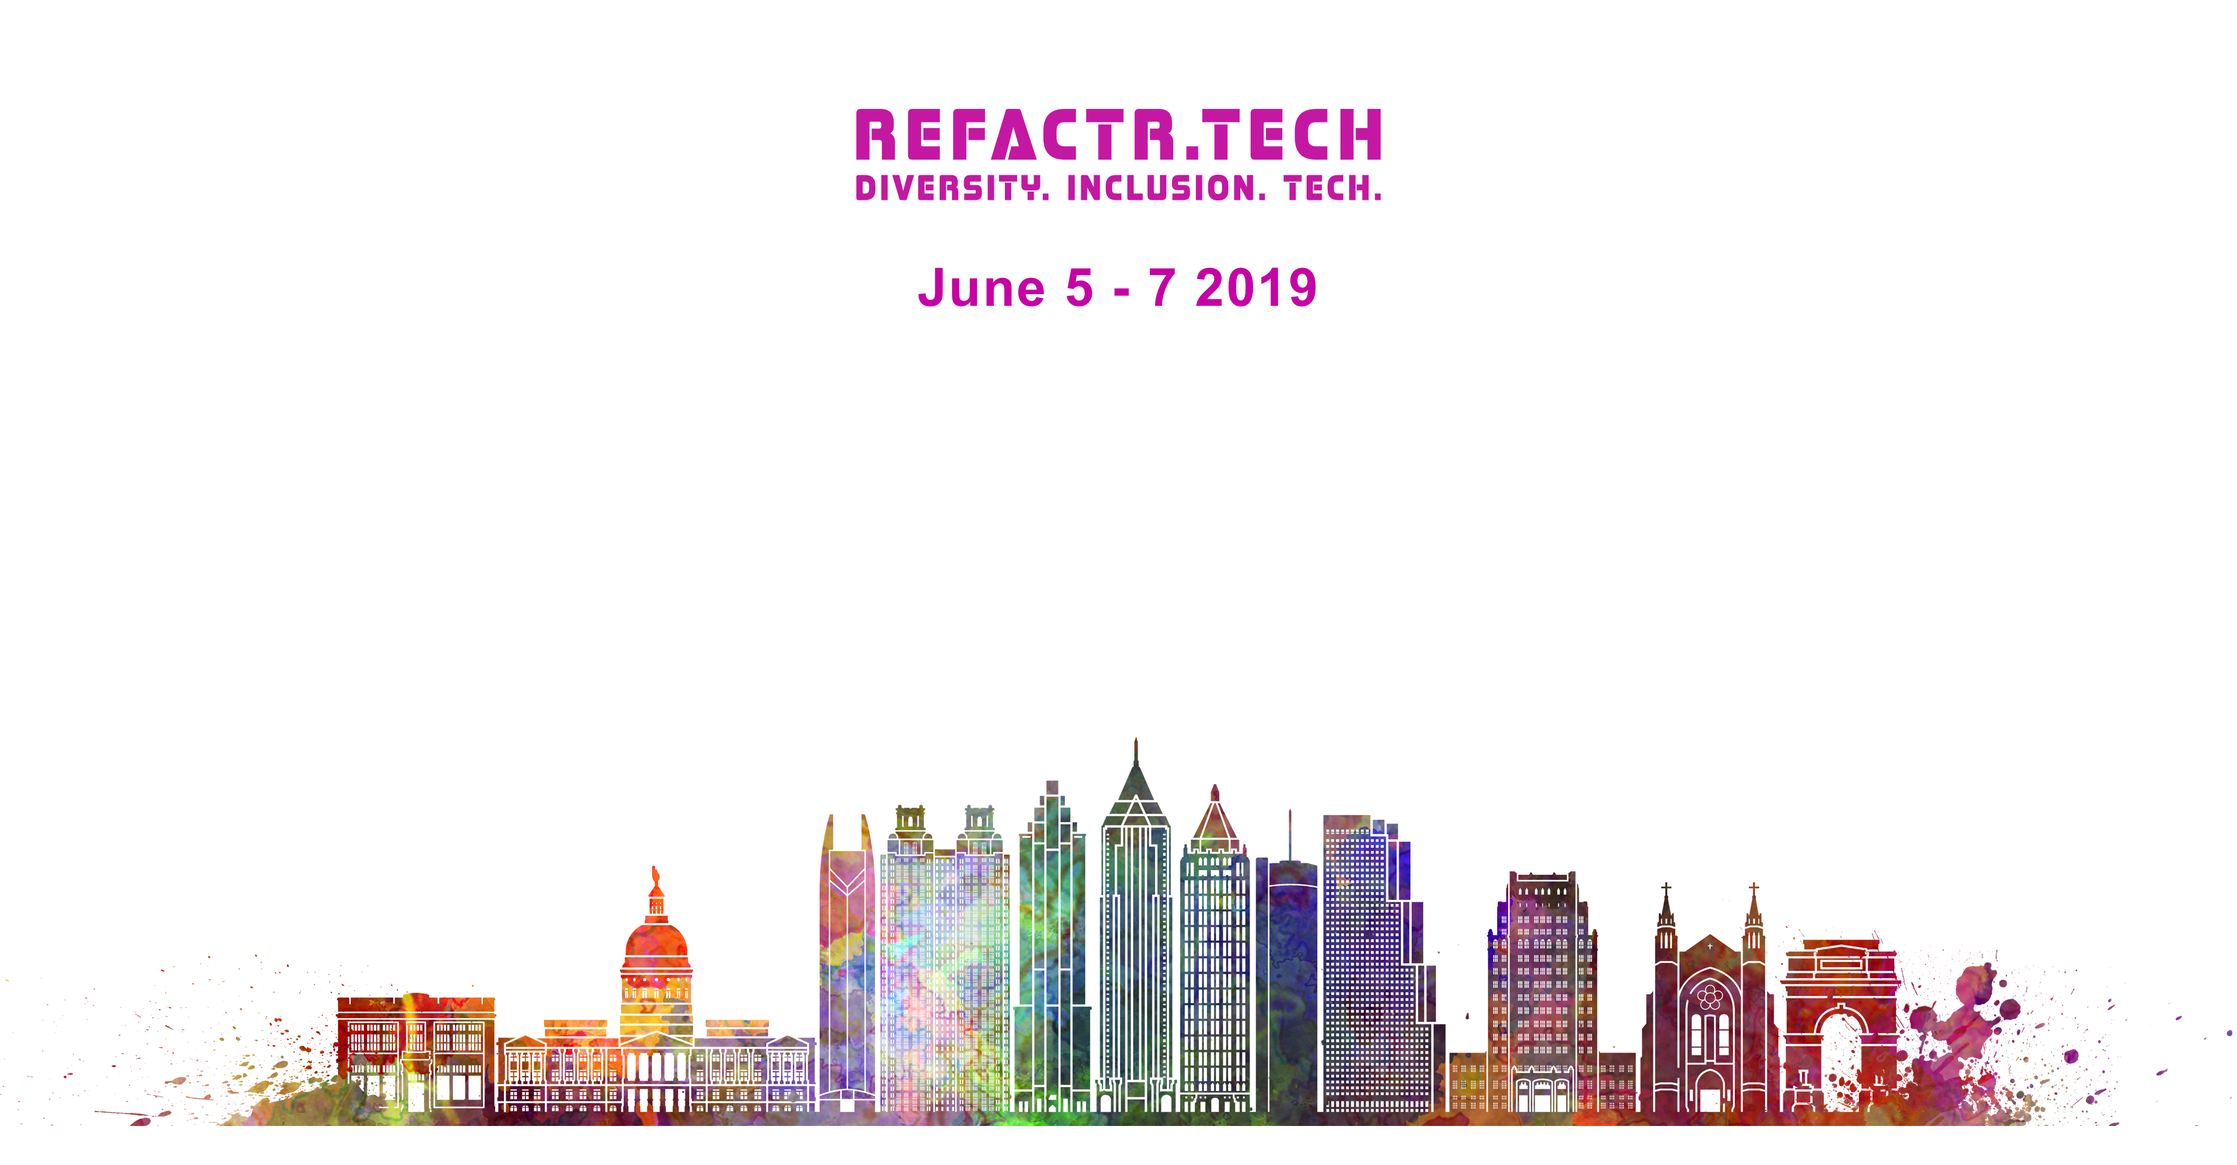
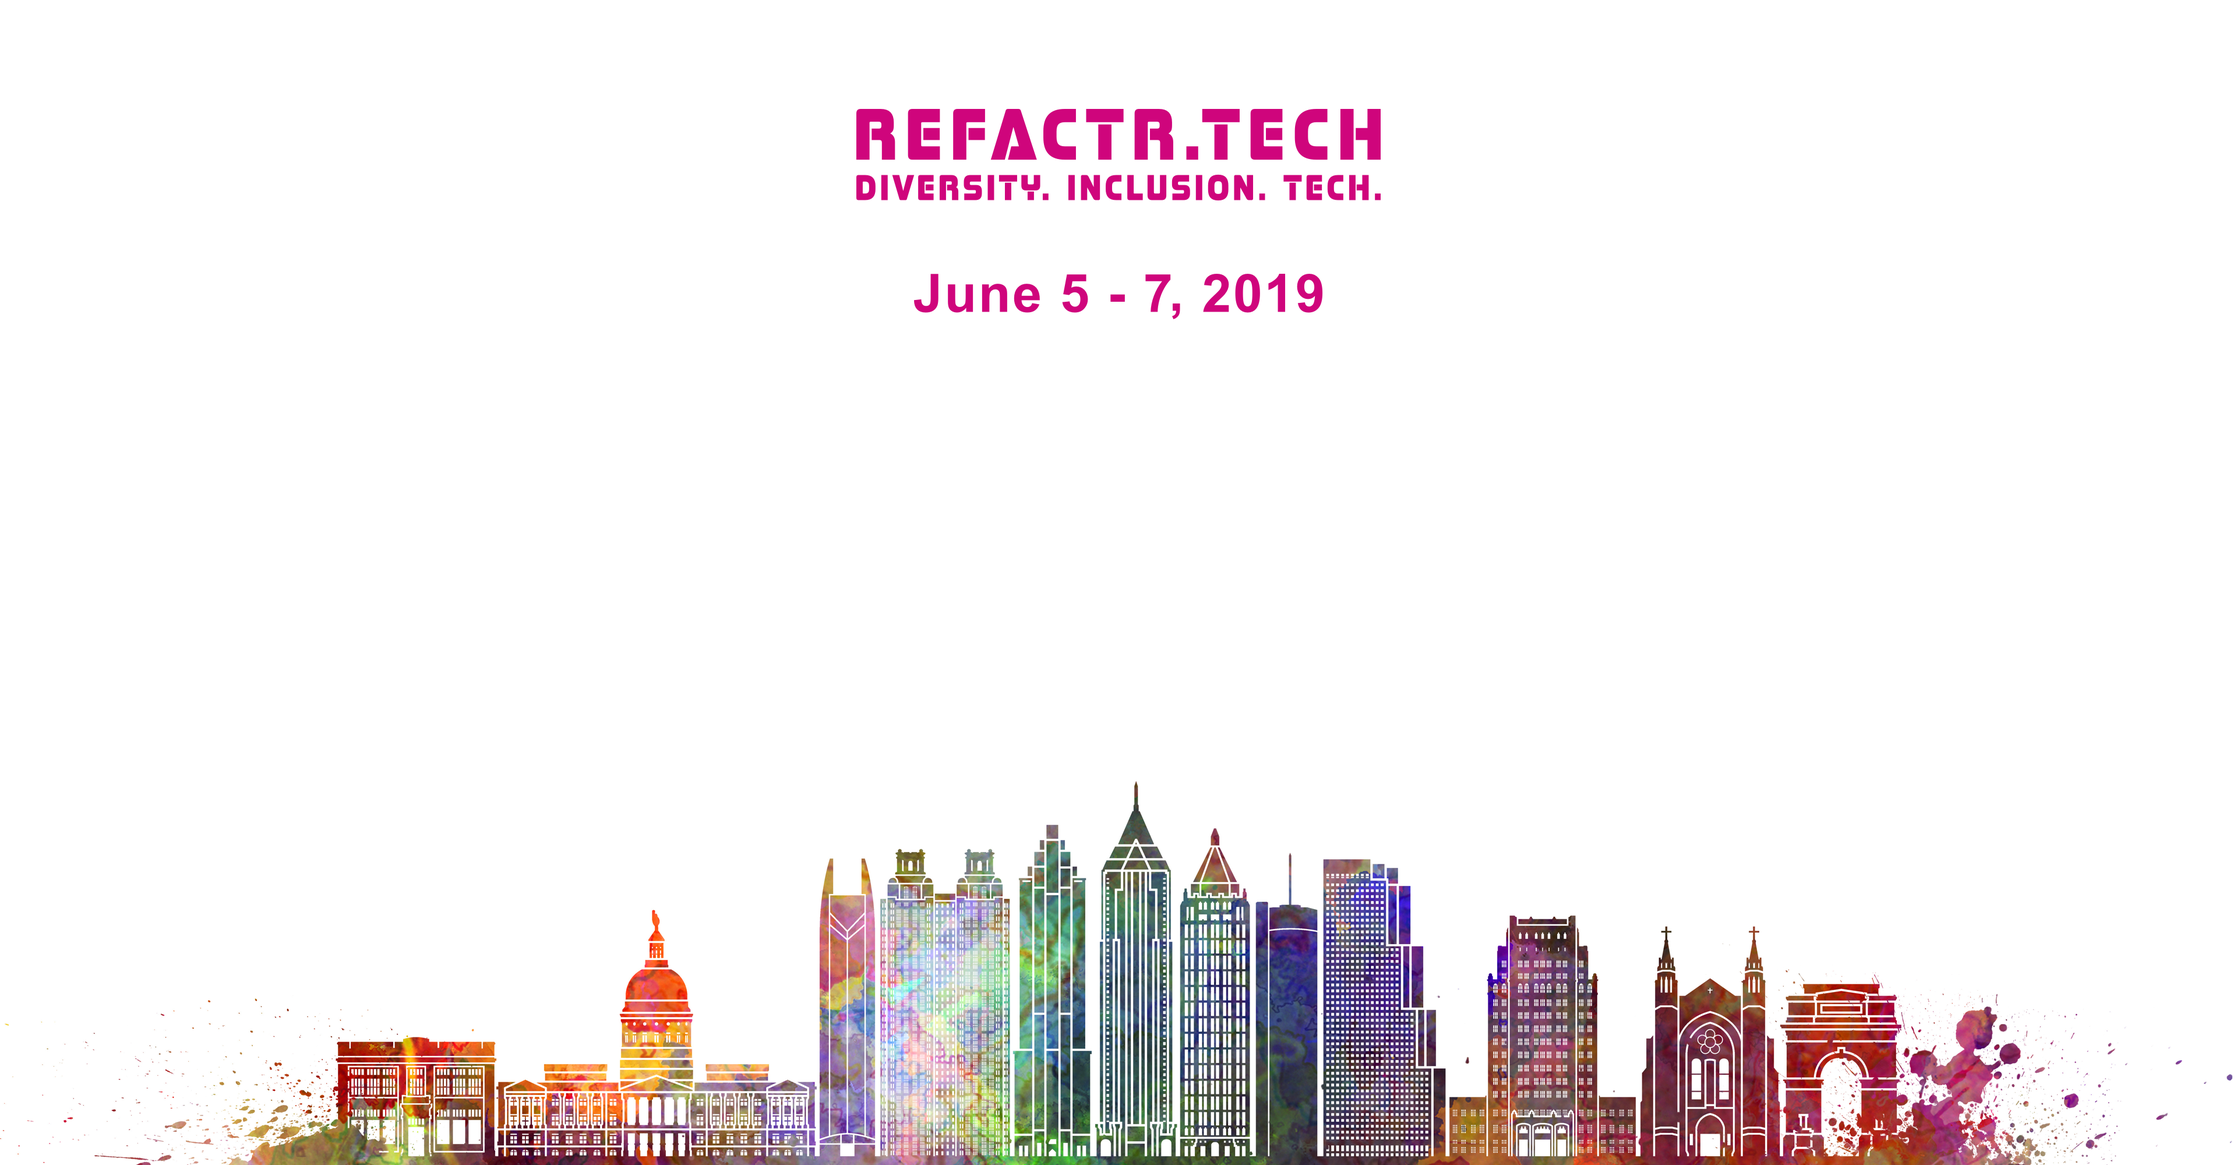
adding privacy policy and accent color update

Changed region(s): [[0.0312, 0.651, 0.9375, 1.0], [0.375, 0.093, 0.625, 0.186], [0.4062, 0.217, 0.5938, 0.279]]

diff --git a/privacy-policy.html b/privacy-policy.html
@@ -4,7 +4,7 @@
 <head>
     <meta charset="UTF-8">
     <meta http-equiv="X-UA-Compatible" content="IE=edge">
-    <title>Code of Conduct | REFACTR.TECH</title>
+    <title>Privacy Policy | REFACTR.TECH</title>
     <meta name="author" content="iThemesLab">
     <meta name="description" content="">
     <meta name="viewport" content="width=device-width, initial-scale=1, shrink-to-fit=no">
@@ -180,12 +180,12 @@
                     <div class="col-lg-12">
                         <div class="about-content">
                             <div class="section-title text-center">
-                                <h2>Code of Conduct</h2>
+                                <h2>Privacy Policy</h2>
                             </div>
                             <ol class="breadcrumb">
                                 <li><a href="index.html">Home</a></li>
                                 <li>|</li>
-                                <li>Code of Conduct</li>
+                                <li>Privacy Policy</li>
                             </ol>
                         </div>
                     </div>
@@ -197,7 +197,7 @@
         </div>
         <!--About Us Area End Here-->
 
-        <!--Code of Conduct Content Area Start Here-->
+        <!--Privacy Policy Content Area Start Here-->
         
 
 <div style="margin-top:15px; margin-bottom:20px;">
@@ -206,79 +206,28 @@
                     <div class="col-lg-12">
                         <div class="inner-content">
 
-<p>
-Everyone participating in the REFACTR.TECH conference, events and Slack community—including, but not limited to attendees, speakers, sponsors and volunteers at REFACTR.TECH, are required to agree to the following code of conduct. Organizers will enforce this code throughout the event.
-</p>
-
-<h2>The Quick Version</h2>
-<br>
-<p>
-REFACTR.TECH is dedicated to providing a harassment-free experience and environment for everyone, regardless of gender, gender identity and expression, age, sexual orientation, disability, physical appearance, body size, race, ethnicity, religion (or lack thereof), or technology choices. We do not tolerate harassment of conference participants in any form. Sexual language and imagery is not appropriate for any conference venue, including talks, workshops, parties, social media and other online media. Conference participants violating these rules may be sanctioned or expelled from the conference without a refund at the discretion of the conference organizers.
-</p>
-<p>
-No weapons of any kind are allowed at REFACTR.TECH.
-</p>
-<h2>The More Detailed Version</h2>
-<br>
-<!--p>
-Harassment includes offensive verbal comments related to gender, gender identity and expression, age, sexual orientation, disability, physical appearance, body size, race, ethnicity, religion, technology choices, sexual images in public spaces, deliberate intimidation, stalking, following, harassing photography or recording, sustained disruption of talks or other events, inappropriate physical contact, and unwelcome sexual attention.
-</p-->
-
-<p><i><strong>Harassment includes:</i></strong></p>
-
-<p><ul>
-    <li>Offensive comments related to gender, gender identity and expression, sexual orientation, disability, mental illness, neuro(a)typicality, physical appearance, body size, age, race, ethnicity or religion.</li>
-<li>Unwelcome comments regarding a person's lifestyle choices and practices, including those related to food, health, parenting, drugs, and employment.</li>
-<li>Offensive comments regarding a person's technology choices.</li>
-<li>Deliberate misgendering or use of 'dead' or rejected names.</li>
-<li>Gratuitous or off-topic sexual images or behaviour in public spaces and/or spaces where they're not appropriate.</li>
-<li>Physical contact and simulated physical contact (eg, textual descriptions like "hug" or "backrub") without consent or after a request to stop.</li>
-<li>Threats of violence.</li>
-<li>Incitement of violence towards any individual, including encouraging a person to commit suicide or to engage in self-harm.</li>
-<li>Deliberate intimidation.</li>
-<li>Stalking or following.</li>
-<li>Harassing photography or recording, including logging online activity for harassment purposes.</li>
-<li>Sustained disruption of sessions or other events
-<li>Unwelcome sexual attention.</li>
-<li>Pattern of inappropriate social contact, such as requesting/assuming inappropriate levels of intimacy with others.</li>
-<li>Continued one-on-one communication after requests to cease.</li>
-<li>Deliberate "outing" of any aspect of a person's identity without their consent except as necessary to protect vulnerable people from intentional abuse.</li>
-<li>Publication of non-harassing private communication.</li>
-
-</p>
-
-<p>
-<i><strong>REFACTR.TECH prioritizes marginalized people's safety over privileged people's comfort and therefore we will not act on complaints regarding:</strong></i></p>
-<ul>
-<li>'Reverse' -isms, including 'reverse racism,' 'reverse sexism,' and 'cisphobia'.</li>
-<li>Reasonable communication of boundaries, such as "leave me alone," "go away," or "I'm not discussing this with you".</li>
-<li>Communicating in a 'tone' you don't find congenial.</li>
-<li>Criticizing racist, sexist, cissexist, or otherwise oppressive behavior or assumptions.</li>
-</ul>
-</p>
-
-<h2>Consequences</h2>
-<p>Participants asked to stop any harassing behavior are expected to comply immediately.</p>
-
-<p>If a participant engages in harassing behavior, REFACTR.TECH may take any action we deem appropriate, up to and including expulsion from all REFACTR.TECH spaces and identification of the participant as a harasser to other REFACTR.TECH community members or the general public.</p>
-
-<h2>Reporting and Enforcement</h2>
-<p>If you are being harassed by a member of the REFACTR.TECH community, notice that someone else is being harassed, or have any other concerns, please contact us immediately via email at hello@refactr.tech.</p>
-
-<p><strong>Conference</strong>
-Please contact any member of our organizing, volunteer or security team. Our team can be identified by their volunteer t-shirts and will be trained in how to address and report any incidents that attendees bring to their attention.</p>
-
-<p><strong>Slack</strong>
-Please contact an admin or moderator (designated with a crown  emoji “👑” in their status) via direct message.</p>
-
-<p>If the person who is harassing you is a member of staff, they will recuse themselves from handling your incident.</p>
-
-<p>All reports will be handled in the strictest confidence. We will respond as promptly as we can.</p>
-
-<h2>Acknowledgements</h2>
-<p>This policy borrows heavily from similar open source policies authored by <a href="http://jsconf.com/codeofconduct.html">JSConf</a>, <a href="http://www.writespeakcode.com/code-of-conduct.html">Write/Speak/Code</a> and <a href="https://2018.xoxofest.com/conduct">XOXO</a>.</p>
-
-<p>This policy is licensed under a Creative Commons Attribution 4.0 International license. We encourage other events to adopt (and enforce) similar policies by using and remixing ours.</p>
+                            <p>REFACTR.TECH is committed to protecting the privacy of your personal information. This Policy explains how we gather and use the information that we collect during and after registration for DevNexus. This policy may change over time. Amendments to this statement will be posted at http://devnexus.com and will be effective when posted. Your continued use of this site following the posting of any amendment, modification or change shall constitute your acceptance thereof.</p>
+                            <h2>Consent</h2>
+                            <p>By registering for conference updates or signing up for the conference, you expressly consent to the collection and use by REFACTR.TECH of personally identifiable information according to this Privacy Policy laid out below&nbsp;</p>
+                            <h2>Registration</h2>
+                            <p>During the registration process for DevNexus, REFACTR.TECH will collect the following personally identifiable information about you: your name, job title, email address company, State of Residence, Country of Residence and t-shirt size. This information will be used for DevNexus registration. During the registration process there is a check box that if checked, means that you allow us to share your name, job title, email address, company, State of Residence, and Country of Residence with our sponsors. This will be shared at the conclusion of the conference</p>
+                            <h2>QR Code on your Conference Pass</h2>
+                            <p>The QR Code on your conference pass contains your name, job title, email address, company, State of Residence, and Country of Residence. If you agree to allow a participant &nbsp;of Devnexus ie, Sponsor, Speaker, Fellow attendee to scan your QR Code you are giving them your permission to have access to this information and this is subject to their privacy policies. REFACTR.TECH is not responsible for the privacy practices of a participant of Devnexus to whom you have given permission to scan your badge QR Code. &nbsp;It is your responsibility to as the person or organization scanning your badge QR Code how your information will be used.</p>
+                            <h2>Communications</h2>
+                            <p>REFACTR.TECH occasionally will contact registrants signed up for DevNexus with email updates for the current or future conference. Registrants can opt-out of such communications at any time by contacting us or by using the unsubscribe link.</p>
+                            <p>We also may provide information to regulatory authorities and law enforcement officials in accordance with applicable law or when we otherwise believe in good faith that the law requires it. We do not sell, rent, or share personal information or e-mail addresses with external organizations or individuals.</p>
+                            <h2>Links to Other Web Sites</h2>
+                            <p>REFACTR.TECH may work with other companies&rsquo; websites to perform functions on our behalf. Examples include DevNexus registration, sending e-mail, and processing credit card payments. They have access to personal information needed to perform their functions, and this is subject to their privacy policies. REFACTR.TECH is not responsible for the privacy practices or the content of such websites. If you want to know the privacy policies of the other websites, please refer to the organization sponsoring such website.</p>
+                            <h2>Conference Sponsor Sites</h2>
+                            <p>This website contains links to conference sponsors websites. DevNexus sponsors are responsible for their own policies and procedures. Review the sponsor&rsquo;s policy regarding their privacy policy. REFACTR.TECH is not responsible for products and services transactions that are consummated at third party websites.</p>
+                            <h2>Conditions of Use, Notices, and Revisions</h2>
+                            <p>If you choose to attend DevNexus your visit and any dispute over privacy is subject to this notice, including limitations on damages, arbitration of disputes, and application of the law of the state of Georgia. If you have any concern about privacy at DevNexus, please contact us with a thorough description, and we will try to resolve it.</p>
+                            <p>Our business changes constantly, and our Privacy Notice will change also. We may e-mail periodic reminders of our notices and conditions, unless you have instructed us not to, but you should check our website frequently to see recent changes. Unless stated otherwise, our current Privacy Notice applies to all information that we have about you. We stand behind the promises we make, however, and will never materially change our policies and practices to make them less protective of customer information collected in the past without the consent of affected customers</p>
+                            <h2>Opting Out of Receiving Communications</h2>
+                            <p>You may opt-out of receiving communications from REFACTR.TECH by sending an email to 
+                              <strong>info [at] REFACTR.TECH dot org</strong>
+                            </p>
+                            
 
 </div>
                     </div>
@@ -292,7 +241,7 @@ Please contact an admin or moderator (designated with a crown  emoji “👑” 
 
 
 
-        <!--Code of Conduct Content Area End Here-->
+        <!--Privacy Policy Content Area End Here-->
 
         <!--Footer Area Start Here-->
         <div class="footer-area bg-footer parallax ptb">

diff --git a/assets/css/style.css b/assets/css/style.css
@@ -91,7 +91,7 @@ ul {
     background-color: #4125dd !important;
     border-color: #4125dd !important; }
   .primary-btn a.btn-primary:hover {
-    background: #7307be; }
+    background: #CF057C; }
 
 .bordered-btn a {
   color: #656565;
@@ -498,7 +498,7 @@ a {
   background-image: url(../img/slide/1.jpg); }
 
 .hero-bg-2 {
-  background-image: url(../img/bg/skyline-bg.png?235); }
+  background-image: url(../img/bg/skyline-bg.png?678); }
 
 .hero-bg-3 {
   background-image: url(../img/slide/3.jpg); }
@@ -692,8 +692,8 @@ a {
       transition: all 0.4s;
       background: #cf057c; }
       .header ul li.header-ticket a:hover {
-        background: #7307be;
-        border-color: #7307be; }
+        background: #CF057C;
+        border-color: #CF057C; }
 
 .base-style-2.no-p {
   position: inherit; }
@@ -781,9 +781,9 @@ a {
           margin-bottom: 0;
           margin-top: 10px; }
       .hero-banner-area.home-2 .upcoming div span:nth-child(even) {
-        color: #C418A3; }
+        color: #CF057C; }
         .hero-banner-area.home-2 .upcoming div span:nth-child(even) p {
-          color: #C418A3; }
+          color: #CF057C; }
   .hero-banner-area.home-2 .banner-content {
     display: -webkit-box;
     display: -ms-flexbox;
@@ -898,7 +898,7 @@ a {
           -o-transition: all 0.4s;
           transition: all 0.4s; }
           .home-4 .contact-box .inner-content button.btn-primary:hover {
-            background: #7307be; }
+            background: #CF057C; }
           .home-4 .contact-box .inner-content button.btn-primary:focus {
             outline: none;
             -webkit-box-shadow: none;
@@ -1249,7 +1249,7 @@ a {
       transition: all 0.4s;
       text-transform: capitalize; }
       .whos-speaking-area .speakers .spk-info h3:hover {
-        color: #C418A3; }
+        color: #CF057C; }
     .whos-speaking-area .speakers .spk-info p {
       font-size: 15px;
       margin-bottom: 0;
@@ -1662,7 +1662,7 @@ a {
       -o-transition: all 0.4s;
       transition: all 0.4s; }
       .contact-us-area-two .inner-box button.btn-primary:hover {
-        background: #7307be;
+        background: #CF057C;
         color: #fff; }
       .contact-us-area-two .inner-box button.btn-primary:focus {
         outline: none;
@@ -1718,7 +1718,7 @@ a {
     -o-transition: all 0.4s;
     transition: all 0.4s; }
     .contact-area .contact-form .btn-2 button.btn-primary:hover {
-      background: #7307be; }
+      background: #CF057C; }
 
 .contact-area .title {
   margin-bottom: 20px; }
@@ -1833,9 +1833,9 @@ a {
     -o-transition: all 0.4s;
     transition: all 0.4s; }
     .footer-area .f-content .sub-btn button:hover {
-      background: #7307be;
+      background: #CF057C;
       color: #fff;
-      border-color: #7307be; }
+      border-color: #CF057C; }
 
 .footer-area .f-content .f-social {
   margin-top: 35px; }

diff --git a/index.html b/index.html
@@ -37,7 +37,7 @@
     <!--Lightbox Css-->
     <link rel="stylesheet" href="assets/css/vendor/lightbox.css">
     <!--Style Css-->
-    <link rel="stylesheet" href="assets/css/style.css?012">
+    <link rel="stylesheet" href="assets/css/style.css?901">
     <!--Responsive Css-->
     <link rel="stylesheet" href="assets/css/responsive.css">
     <!--Modernizr Css-->
@@ -943,7 +943,7 @@ focuses on technology while creating a safe space for thoughtful and nuanced con
                     <div class="col-lg-5">
                         <div class="am">
                             <div class="f-logo">
-                                <img src="assets/img/logo/logo-2.png" width="428" height="188" alt="">
+                                <img src="assets/img/logo/logo-2.png?123" width="428" height="188" alt="">
                             </div>
                             <div class="border-right"></div>
                         </div>
@@ -1016,7 +1016,7 @@ focuses on technology while creating a safe space for thoughtful and nuanced con
                 <div class="row">
                     <div class="col-lg-12">
                         <div class="copyright">
-                            <p>©2018-2019 ConnectEvents.io
+                            <p>©2018-2019 ConnectEvents.io &nbsp;&nbsp;&nbsp;&nbsp; <a href="privacy-policy.html">Privacy Policy</a> 
                         </div>
                     </div>
                 </div>

diff --git a/about.html b/about.html
@@ -378,7 +378,7 @@ and product tracks are appropriate for any experience level.</p>
                     <div class="col-lg-5">
                         <div class="am">
                             <div class="f-logo">
-                                <img src="assets/img/logo/logo-2.png" width="428" height="188" alt="">
+                                <img src="assets/img/logo/logo-2.png?123" width="428" height="188" alt="">
                             </div>
                             <div class="border-right"></div>
                         </div>
@@ -424,7 +424,7 @@ and product tracks are appropriate for any experience level.</p>
                 <div class="row">
                     <div class="col-lg-12">
                         <div class="copyright">
-                            <p>©2018-2019 ConnectEvents.io
+                            <p>©2018-2019 ConnectEvents.io &nbsp;&nbsp;&nbsp;&nbsp; <a href="privacy-policy.html">Privacy Policy</a>
                         </div>
                     </div>
                 </div>
